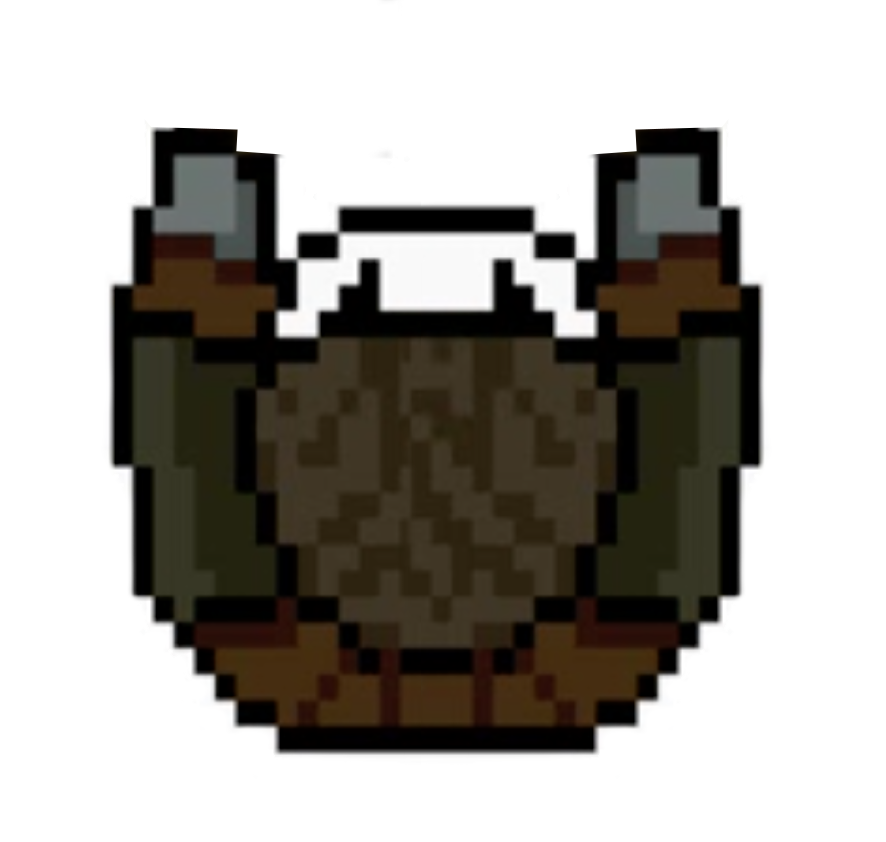
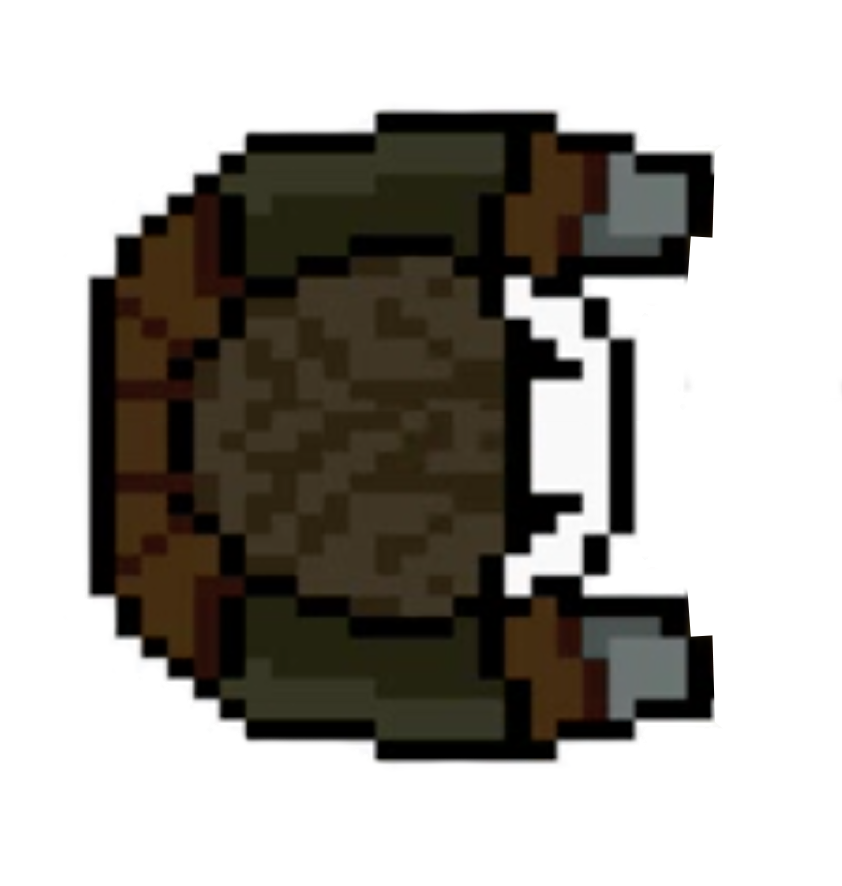
ændret den måde sprite rotationer bliver udregnet og håndteret på

diff --git a/Movement/src/main/java/rpg/movement/MovementControlSystem.java b/Movement/src/main/java/rpg/movement/MovementControlSystem.java
@@ -19,7 +19,6 @@ public class MovementControlSystem implements IEntityProcessingService {
             float deltaTime = gameData.getDeltaTime();
             enemy.setDx(0);
             enemy.setDy(0);
-            enemy.setDirection(0);
             enemy.reduceActionTimer();
             if (enemy.getActionTimer() < 0) {
                 enemy.setVerticalMovementChance(Math.random());
@@ -27,30 +26,27 @@ public class MovementControlSystem implements IEntityProcessingService {
                 enemy.setActionTimer((int) (Math.random() * 90) + 10);
             }
             if (enemy.getVerticalMovementChance() < 0.20) { // up
-                enemy.setDy(enemy.getSpeed() * deltaTime);
-                enemy.setDirection(360);
+                enemy.setDy(enemy.getMovementSpeed() * deltaTime);
             }
             else if (enemy.getVerticalMovementChance() < 0.40) { // down
-                enemy.setDy(-enemy.getSpeed() * deltaTime);
-                enemy.setDirection(180);
+                enemy.setDy(-enemy.getMovementSpeed() * deltaTime);
             }
             if (enemy.getHorizontalMovementChance() < 0.20) { // left
-                enemy.setDx(-enemy.getSpeed() * deltaTime);
-                int angle = enemy.getDirection() + 90;
-                if (angle > 90) {
-                    angle = (angle % 360) / 2;
-                }
-                enemy.setDirection(angle);
+                enemy.setDx(-enemy.getMovementSpeed() * deltaTime);
             }
             else if (enemy.getHorizontalMovementChance() < 0.40) { // right
-                enemy.setDx(enemy.getSpeed() * deltaTime);
-                int angle = enemy.getDirection() + 270;
-                if (angle > 270) {
-                    angle /= 2;
-                }
+                enemy.setDx(enemy.getMovementSpeed() * deltaTime);
+            }
+            float diagonalFactor = (float) Math.sqrt(Math.pow(enemy.getMovementSpeed(), 2) + Math.pow(enemy.getMovementSpeed(), 2)) / enemy.getMovementSpeed();
+            if (enemy.getDx() != 0 && enemy.getDy() != 0) {
+                enemy.setDx(enemy.getDx() / diagonalFactor);
+                enemy.setDy(enemy.getDy() / diagonalFactor);
+            }
+
+            if (enemy.getDx() != 0 || enemy.getDy() != 0) {
+                double angle = Math.toDegrees(Math.atan2(enemy.getDy(), enemy.getDx()));
                 enemy.setDirection(angle);
             }
-            enemy.setDirection(0);
 
             enemy.setX(enemy.getX() + enemy.getDx());
             enemy.setY(enemy.getY() + enemy.getDy());
@@ -63,14 +59,16 @@ public class MovementControlSystem implements IEntityProcessingService {
         if (enemy.getX() - (enemy.getWidth() / 2) < 0) {
             enemy.setX(0 + (enemy.getWidth() / 2));
             enemy.setDx(0);
-        } else if (enemy.getX() + (enemy.getWidth() / 2) > gameData.getDisplayWidth()) {
+        }
+        else if (enemy.getX() + (enemy.getWidth() / 2) > gameData.getDisplayWidth()) {
             enemy.setX(gameData.getDisplayWidth() - (enemy.getWidth() / 2));
             enemy.setDx(0);
         }
         if (enemy.getY() - (enemy.getHeight() / 2) < 0) {
             enemy.setY(0 + (enemy.getHeight() / 2));
             enemy.setDy(0);
-        } else if (enemy.getY() + (enemy.getHeight() / 2) > gameData.getDisplayHeight()) {
+        }
+        else if (enemy.getY() + (enemy.getHeight() / 2) > gameData.getDisplayHeight()) {
             enemy.setY(gameData.getDisplayHeight() - (enemy.getHeight() / 2));
             enemy.setDy(0);
         }

diff --git a/Player/src/main/java/rpg/player/PlayerControlSystem.java b/Player/src/main/java/rpg/player/PlayerControlSystem.java
@@ -1,5 +1,6 @@
 package rpg.player;
 
+import com.badlogic.gdx.math.Vector2;
 import org.openide.util.lookup.ServiceProvider;
 import org.openide.util.lookup.ServiceProviders;
 import rpg.common.entities.Entity;
@@ -11,8 +12,7 @@ import rpg.common.services.IEntityProcessingService;
 import rpg.common.services.IGamePluginService;
 
 @ServiceProviders(value = {
-    @ServiceProvider(service = IEntityProcessingService.class)
-    ,
+    @ServiceProvider(service = IEntityProcessingService.class),
     @ServiceProvider(service = IGamePluginService.class)
 })
 public class PlayerControlSystem implements IEntityProcessingService, IGamePluginService {
@@ -31,36 +31,27 @@ public class PlayerControlSystem implements IEntityProcessingService, IGamePlugi
         float deltaTime = gameData.getDeltaTime();
         player.setDx(0);
         player.setDy(0);
-        player.setDirection(0);
         if (gameData.getKeys().isDown(GameKeys.W)) {
-            player.setDy(player.getSpeed() * deltaTime);
-            player.setDirection(360);
+            player.setDy(player.getMovementSpeed() * deltaTime);
         }
         else if (gameData.getKeys().isDown(GameKeys.S)) {
-            player.setDy(-player.getSpeed() * deltaTime);
-            player.setDirection(180);
+            player.setDy(-player.getMovementSpeed() * deltaTime);
         }
         if (gameData.getKeys().isDown(GameKeys.A)) {
-            player.setDx(-player.getSpeed() * deltaTime);
-            int angle = player.getDirection() + 90;
-            if(angle > 90) {
-                angle = (angle % 360) / 2;
-            }
-            player.setDirection(angle);
+            player.setDx(-player.getMovementSpeed() * deltaTime);
         }
         else if (gameData.getKeys().isDown(GameKeys.D)) {
-            player.setDx(player.getSpeed() * deltaTime);
-            int angle = player.getDirection() + 270;
-            if(angle > 270) {
-                angle /= 2;
-            }
-            player.setDirection(angle);
+            player.setDx(player.getMovementSpeed() * deltaTime);
         }
-        
-        float diagonalFactor = (float) Math.sqrt(Math.pow(player.getSpeed(), 2) + Math.pow(player.getSpeed(), 2)) / player.getSpeed();
-        if(player.getDx() != 0 && player.getDy() != 0) {
+        float diagonalFactor = (float) Math.sqrt(Math.pow(player.getMovementSpeed(), 2) + Math.pow(player.getMovementSpeed(), 2)) / player.getMovementSpeed();
+        if (player.getDx() != 0 && player.getDy() != 0) {
             player.setDx(player.getDx() / diagonalFactor);
             player.setDy(player.getDy() / diagonalFactor);
+        }
+        
+        if(player.getDx() != 0 || player.getDy() != 0) {
+            double angle = Math.toDegrees(Math.atan2(player.getDy(), player.getDx()));
+            player.setDirection(angle);
         }
 
         player.setX(player.getX() + player.getDx());
@@ -93,7 +84,7 @@ public class PlayerControlSystem implements IEntityProcessingService, IGamePlugi
         newPlayer.setType(EntityType.PLAYER);
         newPlayer.setX(25);
         newPlayer.setY(25);
-        newPlayer.setSpeed(200);
+        newPlayer.setMovementSpeed(200);
         newPlayer.setMaxHealth(100);
         newPlayer.setCurrentHealth(newPlayer.getMaxHealth());
         newPlayer.setWidth(30);

diff --git a/Common/src/main/java/rpg/common/entities/Entity.java b/Common/src/main/java/rpg/common/entities/Entity.java
@@ -1,5 +1,6 @@
 package rpg.common.entities;
 
+import com.badlogic.gdx.math.Vector2;
 import java.io.Serializable;
 import java.util.UUID;
 
@@ -11,20 +12,20 @@ public class Entity implements Serializable {
     private float y;
     private float dx;
     private float dy;
-    private float speed;
+    private float movementSpeed;
     private int currentHealth;
     private int maxHealth;
     private int actionTimer = 10;
     private double verticalMovementChance;
     private double horizontalMovementChance;
-    private int direction;
+    private double direction;
     private String spritePath;
 
-    public int getDirection() {
+    public double getDirection() {
         return direction;
     }
 
-    public void setDirection(int direction) {
+    public void setDirection(double direction) {
         this.direction = direction;
     }
 
@@ -122,12 +123,12 @@ public class Entity implements Serializable {
         this.dy = dy;
     }
 
-    public float getSpeed() {
-        return speed;
+    public float getMovementSpeed() {
+        return movementSpeed;
     }
 
-    public void setSpeed(float speed) {
-        this.speed = speed;
+    public void setMovementSpeed(float speed) {
+        this.movementSpeed = speed;
     }
 
     public float getWidth() {

diff --git a/GameEngine/src/main/java/rpg/gameengine/core/Game.java b/GameEngine/src/main/java/rpg/gameengine/core/Game.java
@@ -8,6 +8,7 @@ import com.badlogic.gdx.graphics.Texture;
 import com.badlogic.gdx.graphics.g2d.BitmapFont;
 import com.badlogic.gdx.graphics.g2d.Sprite;
 import com.badlogic.gdx.graphics.g2d.SpriteBatch;
+import com.badlogic.gdx.math.Vector2;
 import java.util.Collection;
 import java.util.HashMap;
 import java.util.Map;
@@ -122,7 +123,8 @@ public class Game implements ApplicationListener {
     
     private void drawHud() {
         batch.setProjectionMatrix(hudCamera.combined);
-        font.draw(batch, "FPS: " + fps, 7.5f, 20);
+        font.draw(batch, "FPS: " + fps, 7.5f, 40);
+        font.draw(batch, "Zoom: " + gameData.getCameraZoom(), 7.5f, 20);
     }
     
     private void drawMap() {
@@ -133,7 +135,7 @@ public class Game implements ApplicationListener {
         for(Entity entity : world.getEntities()) {
             Sprite sprite = sprites.get(entity);
             sprite.setOriginCenter();
-            sprite.setRotation(entity.getDirection());
+            sprite.setRotation((float) entity.getDirection());
             sprite.setPosition(entity.getX() - entity.getWidth() / 2, entity.getY() - entity.getHeight() / 2);
             sprite.draw(batch);
         }

diff --git a/Enemy/src/main/java/rpg/enemy/EnemyControlSystem.java b/Enemy/src/main/java/rpg/enemy/EnemyControlSystem.java
@@ -26,7 +26,7 @@ public class EnemyControlSystem implements IGamePluginService {
         newEnemy.setType(EntityType.ENEMY);
         newEnemy.setX(640);
         newEnemy.setY(360);
-        newEnemy.setSpeed(100);
+        newEnemy.setMovementSpeed(100);
         newEnemy.setMaxHealth(50);
         newEnemy.setCurrentHealth(newEnemy.getMaxHealth());
         newEnemy.setWidth(30);

diff --git a/Zoom/src/main/java/rpg/zoom/ZoomControlSystem.java b/Zoom/src/main/java/rpg/zoom/ZoomControlSystem.java
@@ -28,7 +28,6 @@ public class ZoomControlSystem implements IEntityProcessingService {
                 System.out.println("zoom out");
             }
         }
-        System.out.println(gameData.getCameraZoom());
     }
 
 }
